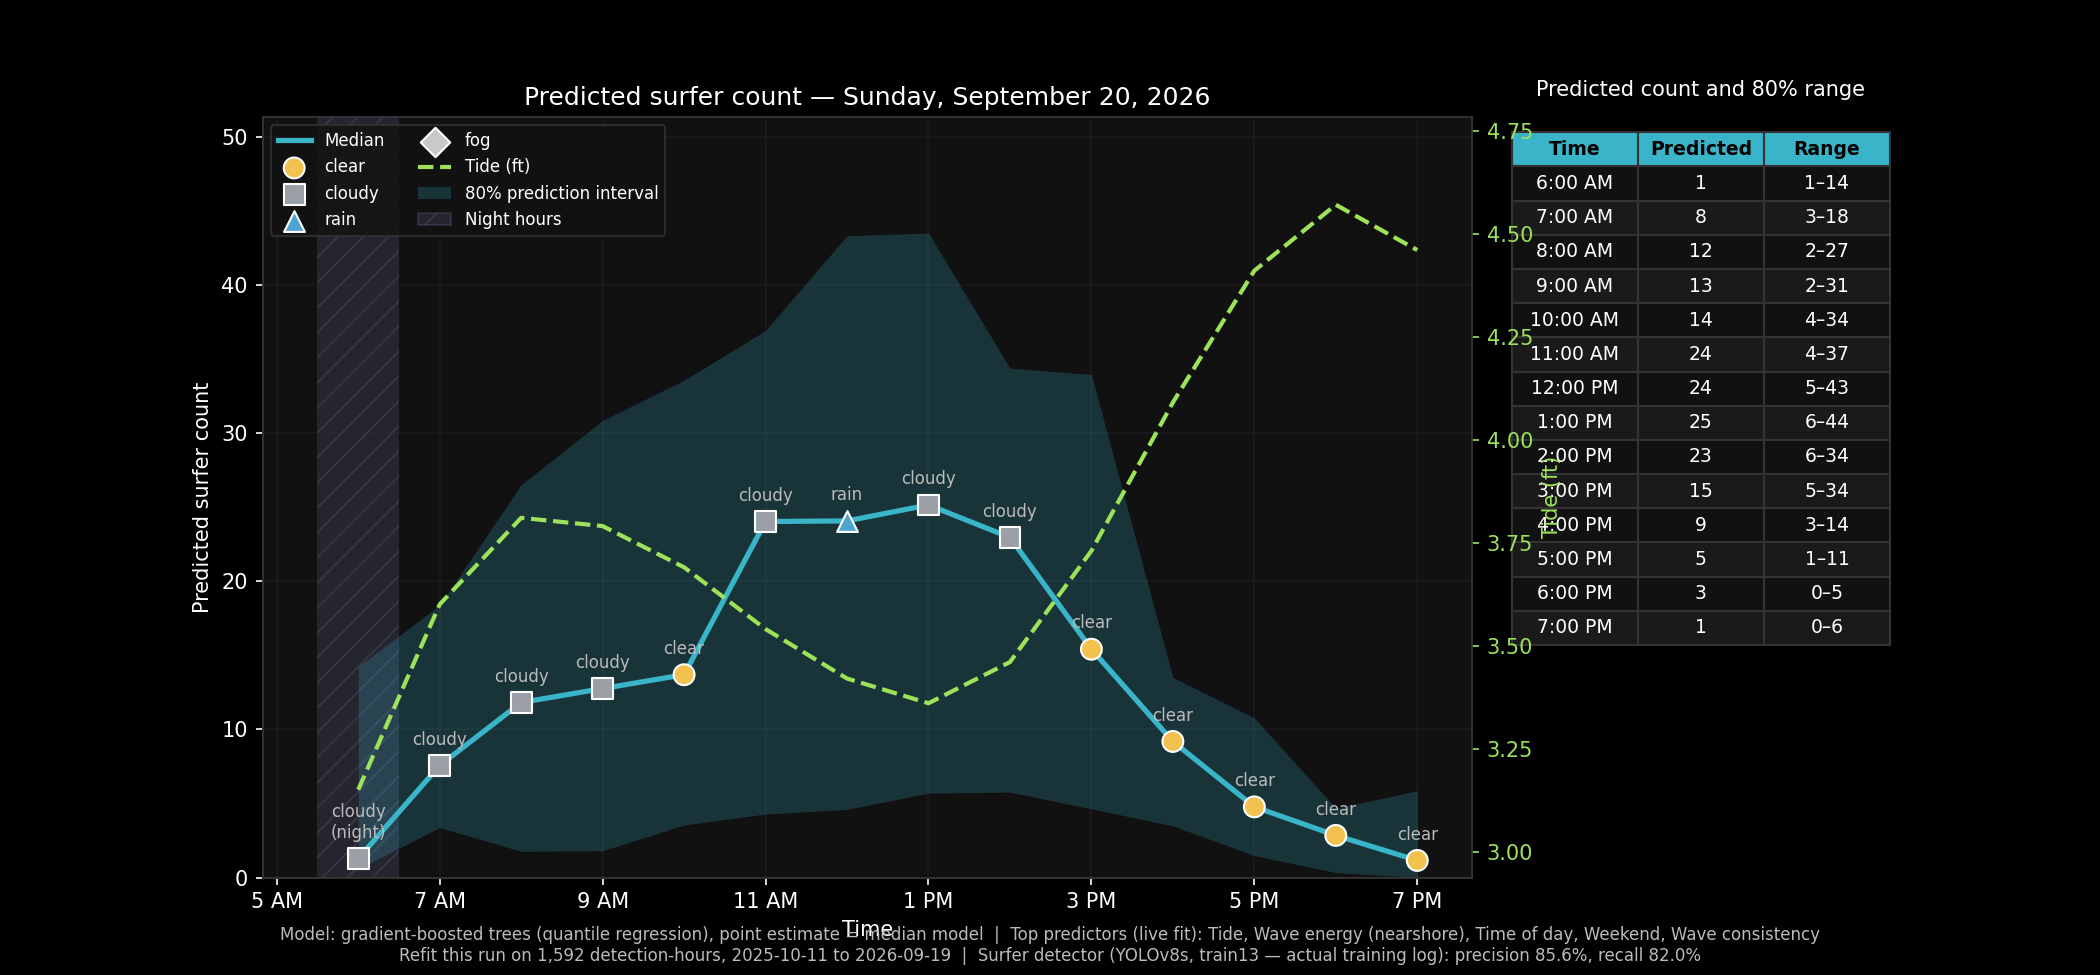
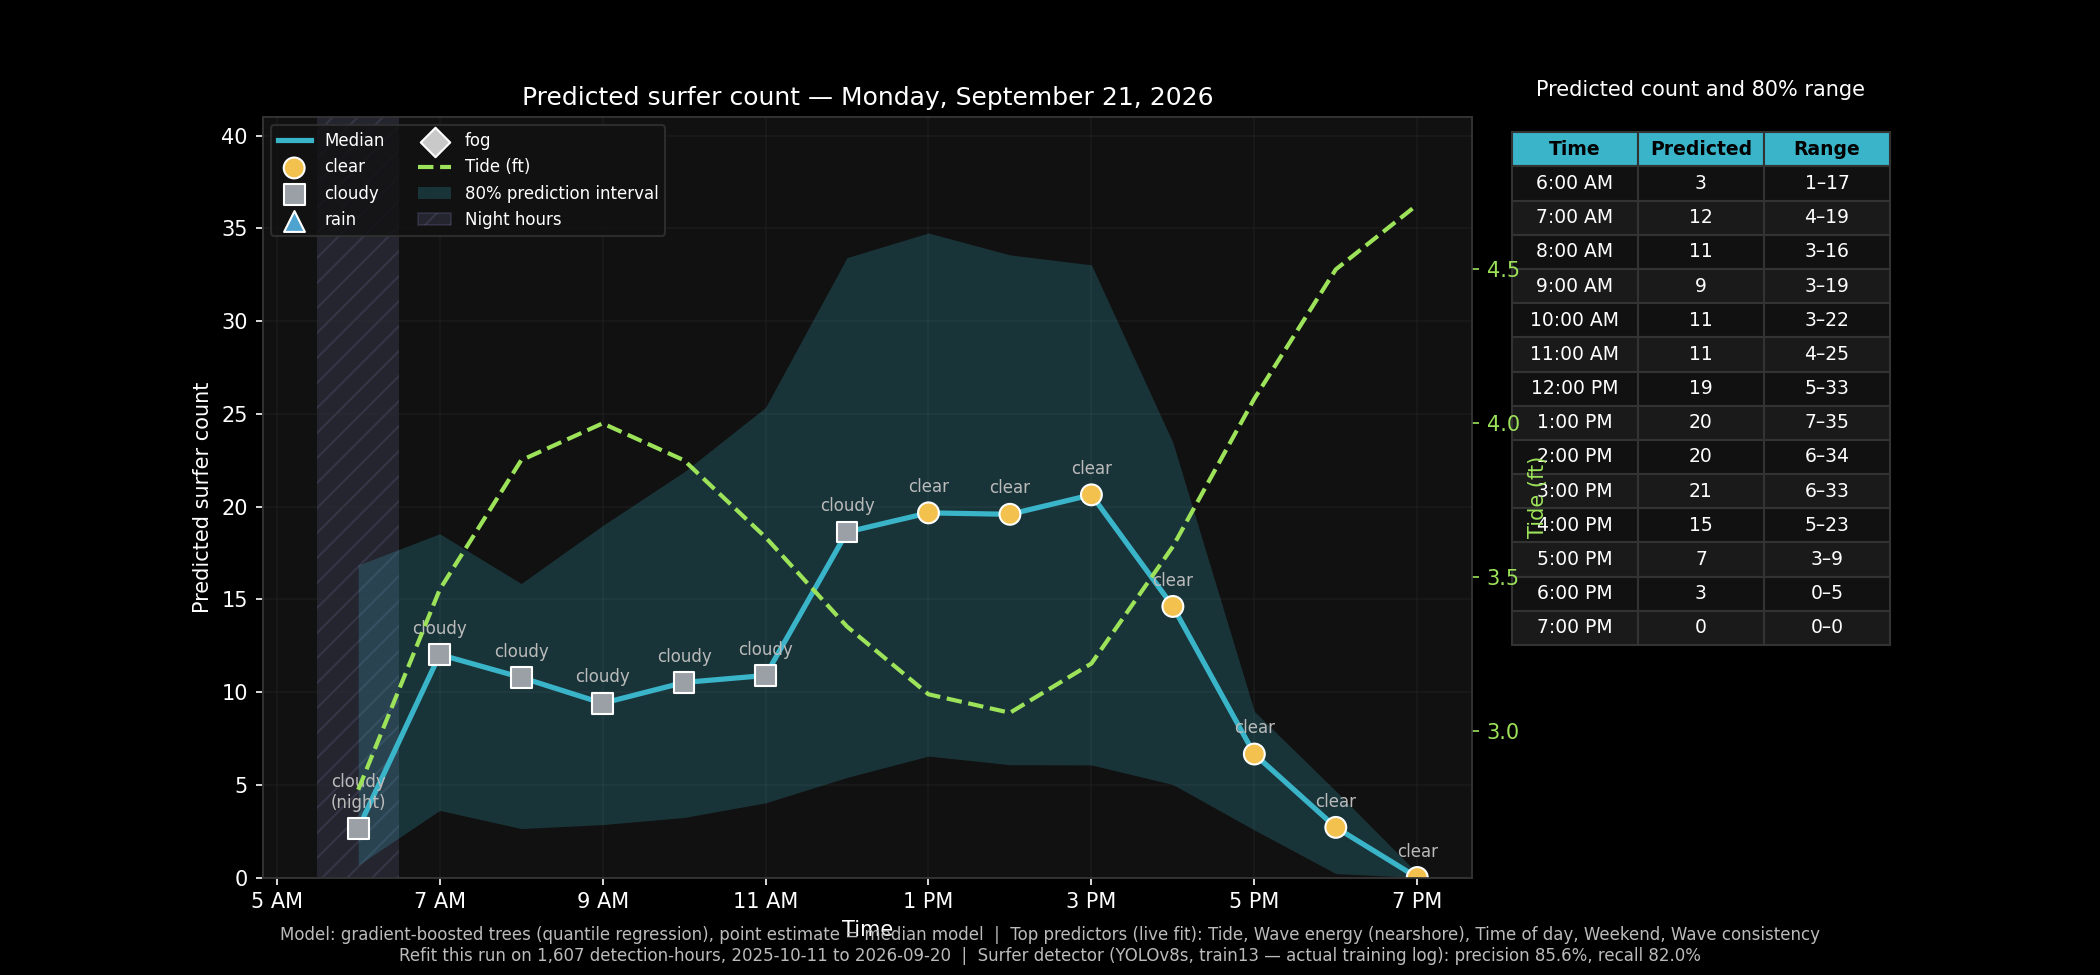
Automated: update daily surfer count chart (2026-09-20)

diff --git a/README.md b/README.md
@@ -9,12 +9,12 @@ This project collects images from a shoreline video camera and tries to answer t
 **_This matters to me as a surfer because the competition for each wave becomes more intense as the crowd size increases.  It helps me choose when to go and know what to expect. _**
 
 <!-- DAILY_CHART_START -->
-#### A Full Day of Surfer Detections: Saturday, September 19, 2026
+#### A Full Day of Surfer Detections: Sunday, September 20, 2026
 
 Each green box below contains a surfer, according to the object detection model.  Each number above a box indicates the probability that the object is a surfer.  Look carefully and you may find additional surfers that the model missed or other objects which are misclassified as surfers - like the wind sock at the bottom center of the photo.  Each frame is one hour of that day, one second apart, and the ends of the camera's view are cropped off so the surfers are big enough to see.
-![Detections through Saturday, September 19, 2026](data/charts/latest_detection.gif)
+![Detections through Sunday, September 20, 2026](data/charts/latest_detection.gif)
 
-#### The Surfer Crowd Forecast for: Sunday, September 20, 2026
+#### The Surfer Crowd Forecast for: Monday, September 21, 2026
 
 Once enough hours and days were gathered along with weather and surf conditions, a surf count prediction model was built to forecast how many surfers would be present at each hour for the coming day.  This is useful for surfers to plan to avoid busy times or at least know what to expect.  Recently the predictions have been low compared to actual counts, so more images are being collected to improve the object detection model's ability to find surfers in a variety of light and water conditions, like fog or choppy water surfaces.
 ![Latest daily prediction chart](data/charts/latest.png)
